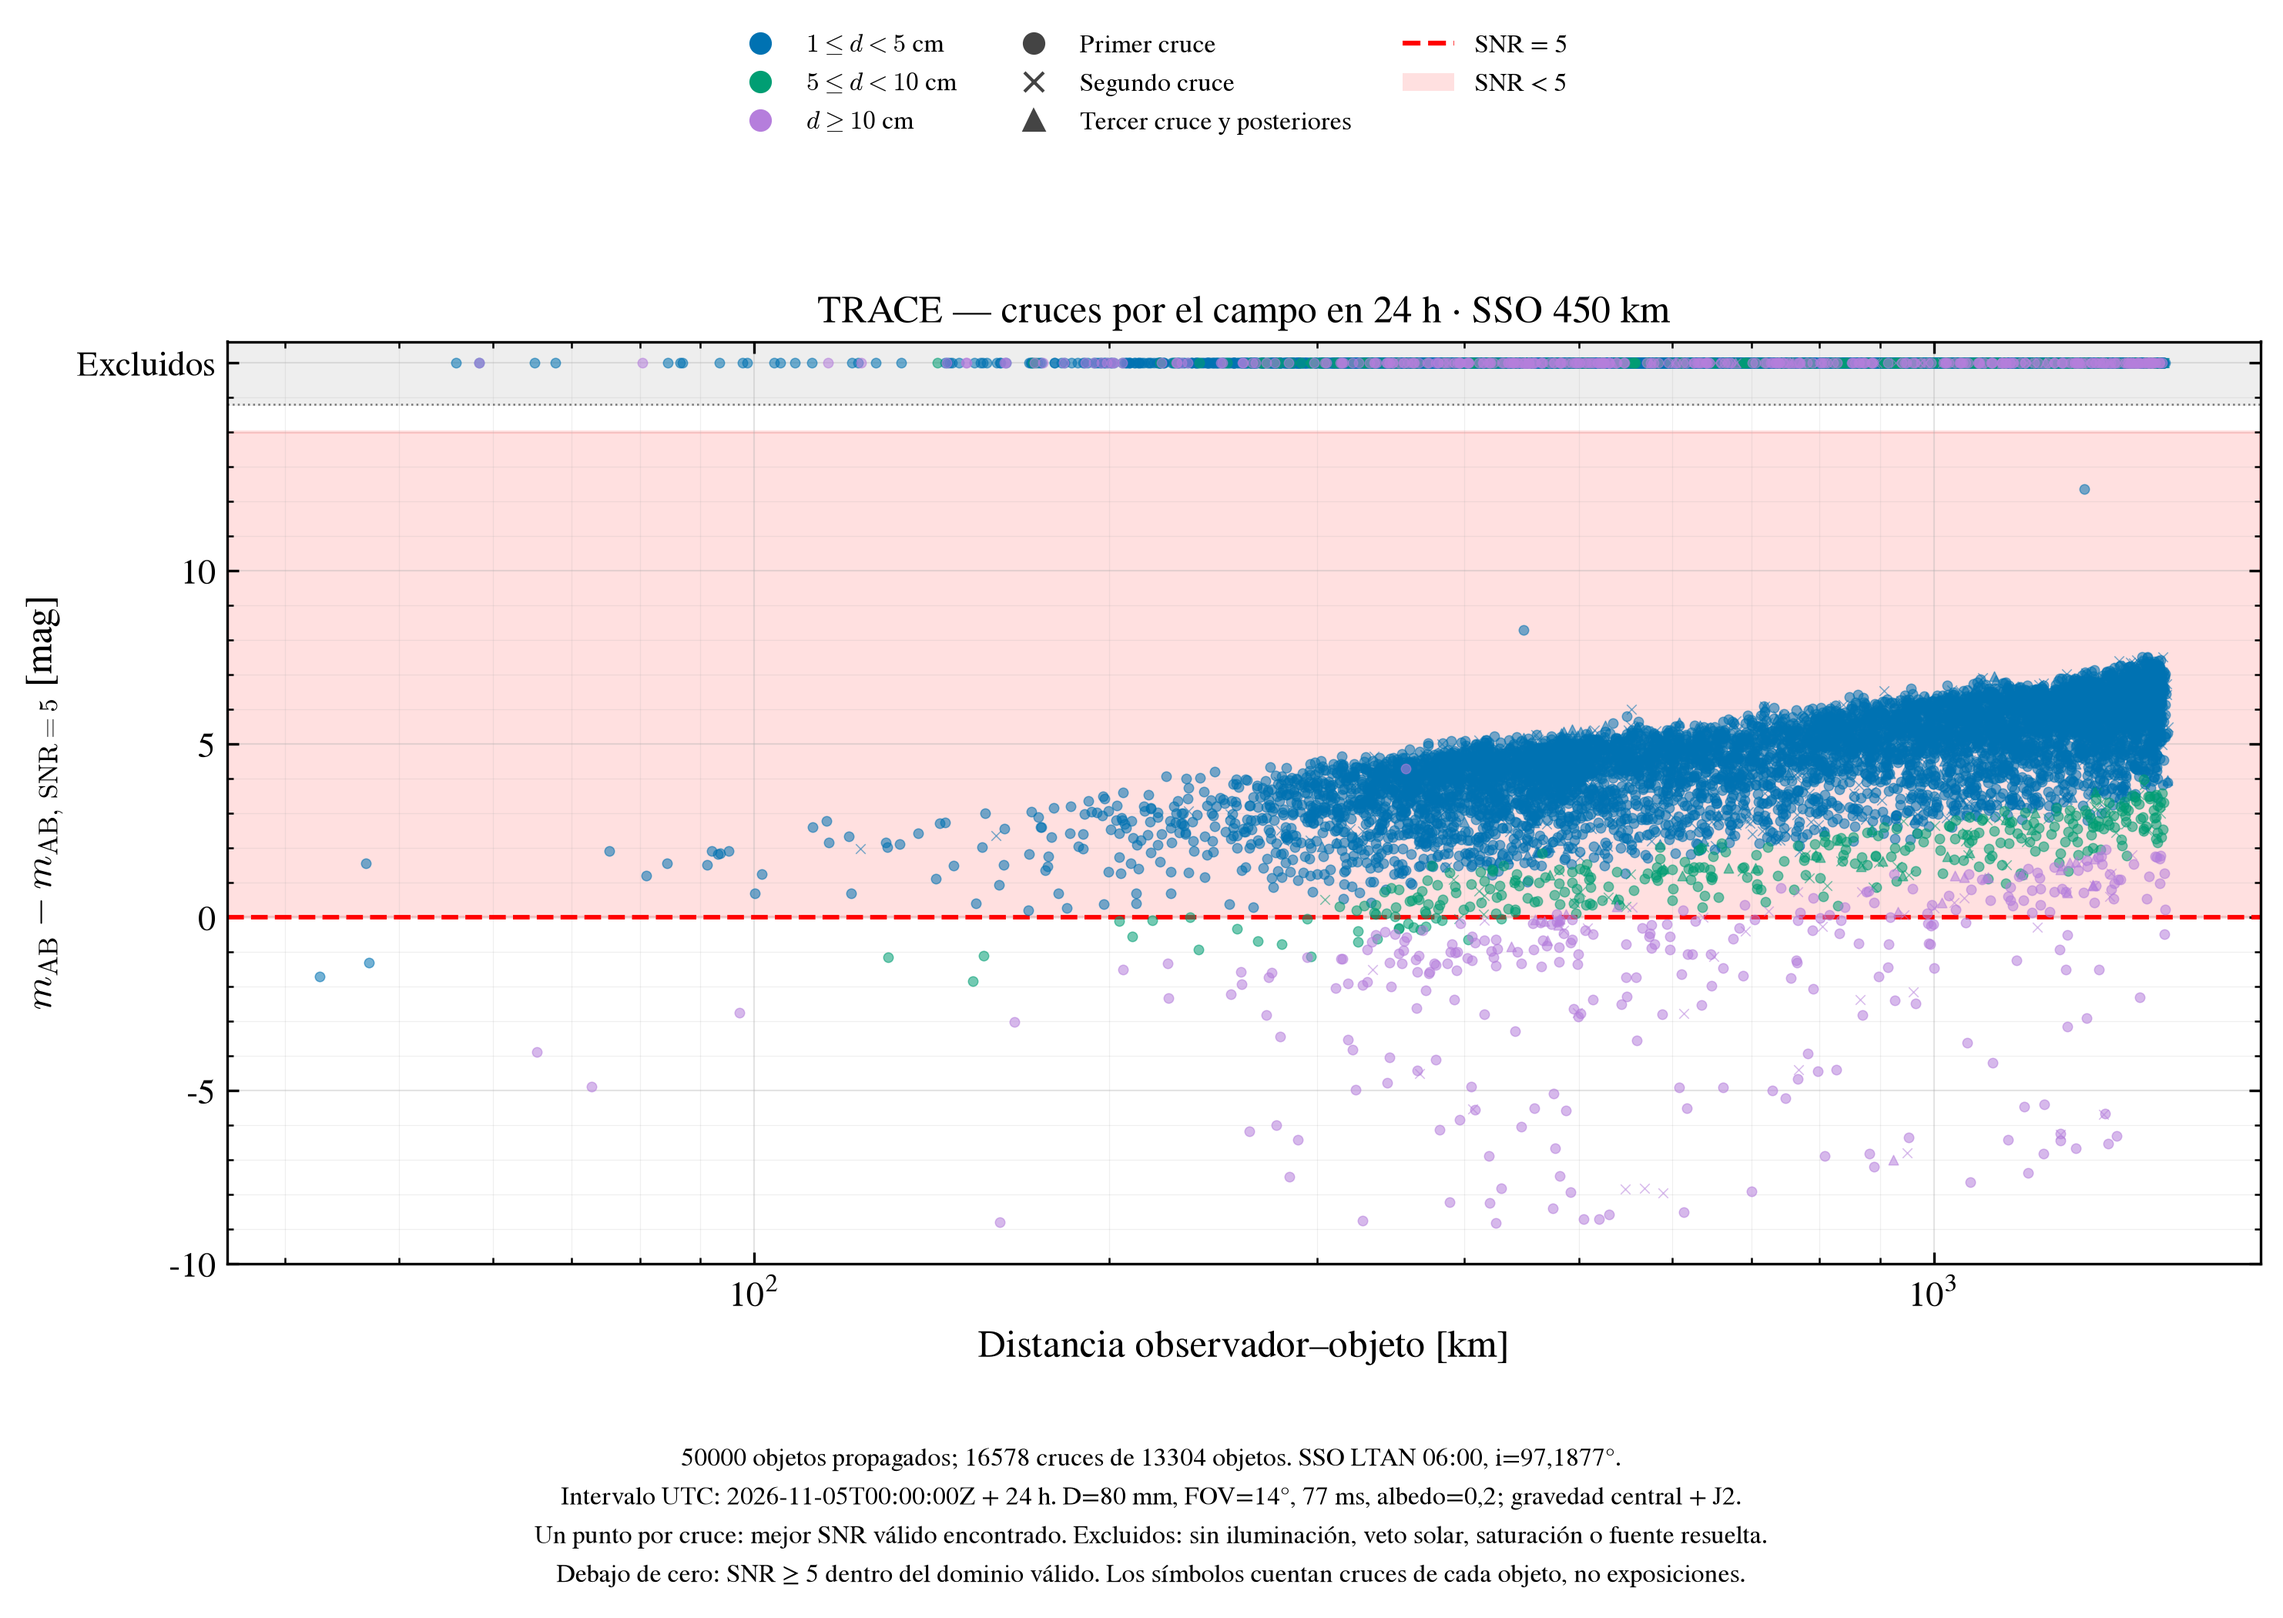
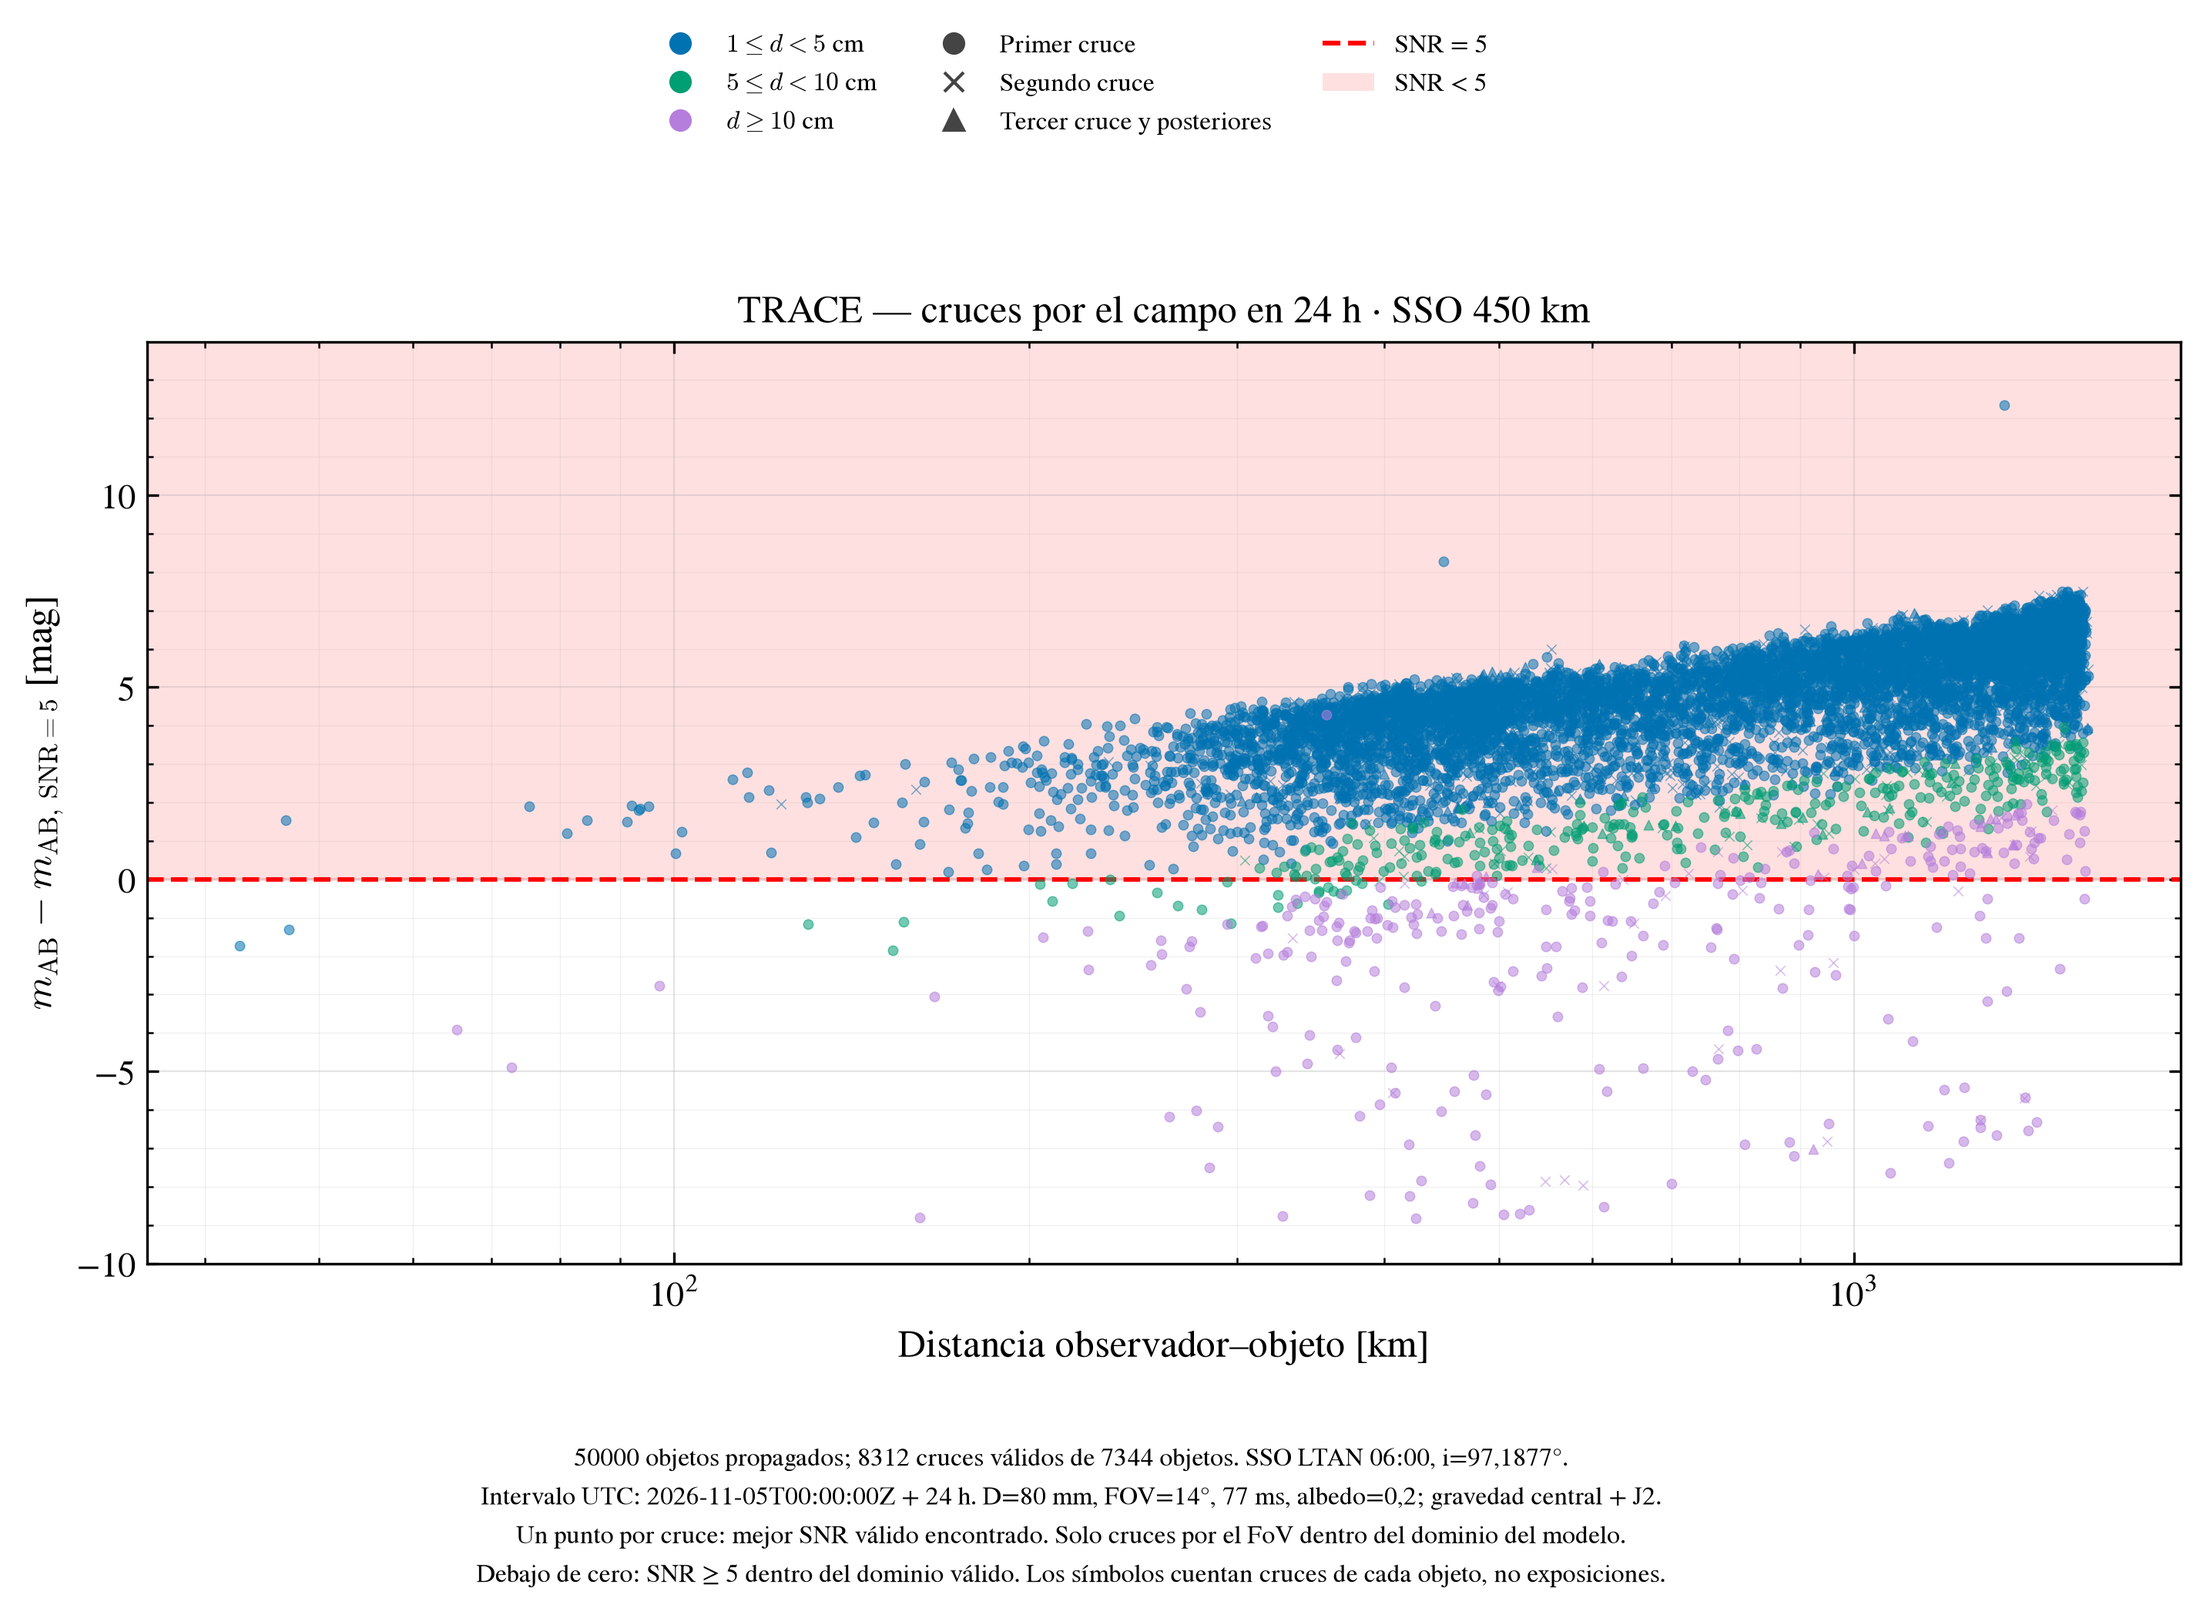
Hide excluded encounters from the two 24-hour scatter plots

diff --git a/scripts/plot_day_encounters.py b/scripts/plot_day_encounters.py
@@ -75,10 +75,67 @@ def best_node(result):
     return len(result['time_s'])//2
 
 
+def render_figures(rows,audit,root,tag):
+    propagation=audit['propagation']
+    valid_count=sum(r['valid'] for r in rows)
+    plotted_ids=len({r['object_id'] for r in rows if r['valid']})
+    publication_style();colors={'1_to_5cm':'#0072B2','5_to_10cm':'#009E73','10cm_up':'#B57EDC'}
+    labels={'1_to_5cm':r'$1\leq d<5$ cm','5_to_10cm':r'$5\leq d<10$ cm','10cm_up':r'$d\geq10$ cm'}
+    valid=np.array([r['valid'] for r in rows]);margin=np.array([r['magnitude_margin'] for r in rows])
+    finite=margin[valid]
+    low=min(-1.,float(np.floor(finite.min()))-1) if len(finite) else -1.
+    high=max(1.,float(np.ceil(finite.max()))+1) if len(finite) else 1.
+    ymap=margin
+    handles=[Line2D([0],[0],marker='o',ls='none',color=c,label=labels[g]) for g,c in colors.items()]
+    handles += [Line2D([0],[0],marker=m,ls='none',color='#444444',label=label) for m,label in
+                [('o','Primer cruce'),('x','Segundo cruce'),('^','Tercer cruce y posteriores')]]
+    handles += [Line2D([0],[0],color='red',ls='--',label='SNR = 5'),Patch(facecolor='red',alpha=.12,label='SNR < 5')]
+    figure_names=[]
+    for xfield,xlabel,suffix,log in [('range_km','Distancia observador–objeto [km]','range',True),
+                                   ('transverse_speed_km_s',r'Velocidad relativa transversal $v_\perp$ [km/s]','transverse_velocity',False)]:
+        fig,ax=plt.subplots(figsize=(10,7),layout='none');fig.subplots_adjust(left=.1,right=.98,bottom=.22,top=.79)
+        ax.axhspan(0,high,color='red',alpha=.12,zorder=0);ax.axhline(0,color='red',ls='--',lw=1.4)
+        xs=np.array([r[xfield] for r in rows])
+        for group,color in colors.items():
+            for marker in ('o','x','^'):
+                mask=valid & np.array([r['size_group']==group and r['marker']==marker for r in rows])
+                ax.scatter(xs[mask],ymap[mask],c=color,marker=marker,s=9,alpha=.55,linewidths=.35,zorder=3)
+        ax.set(xlabel=xlabel,ylabel=r'$m_{\mathrm{AB}}-m_{\mathrm{AB},\,\mathrm{SNR}=5}$ [mag]',
+               ylim=(low,high),title=f'TRACE — cruces por el campo en {propagation["duration_s"]/3600:g} h · SSO 450 km')
+        if log:ax.set_xscale('log')
+        ax.grid(which='major',alpha=.35,lw=.5);ax.grid(which='minor',alpha=.2,lw=.3)
+        fig.legend(handles=handles,loc='upper center',bbox_to_anchor=(.5,.995),ncol=3,frameon=False,fontsize=8)
+        fig.supxlabel(f'{propagation["population_count"]} objetos propagados; {valid_count} cruces válidos de {plotted_ids} objetos. SSO LTAN 06:00, i=97,1877°.\n'
+            f'Intervalo UTC: {propagation["epoch0"]} + {propagation["duration_s"]/3600:g} h. D=80 mm, FOV=14°, 77 ms, albedo=0,2; gravedad central + J2.\n'
+            'Un punto por cruce: mejor SNR válido encontrado. Solo cruces por el FoV dentro del dominio del modelo.\n'
+            'Debajo de cero: SNR ≥ 5 dentro del dominio válido. Los símbolos cuentan cruces de cada objeto, no exposiciones.',fontsize=8,y=.015)
+        fig_name='trace_nominal_'+tag+'_magnitude_margin_vs_'+suffix;figure_names.append(fig_name+'.png')
+        save_figure(fig,root/'outputs/optical/summary',fig_name)
+    audit['figures']=figure_names
+    audit['plot_exclusions']='excluded events omitted from figures; retained in complete encounter CSV'
+    audit['plotted_events']=valid_count
+    audit['plotted_distinct_objects']=plotted_ids
+    return audit
+
+
 def main():
     parser=argparse.ArgumentParser();parser.add_argument('--tag',default='sso450km_24h')
     parser.add_argument('--sample',type=float,default=.25);parser.add_argument('--suffix',default='')
+    parser.add_argument('--plots-only',action='store_true')
     args=parser.parse_args();root=Path(__file__).resolve().parents[1];source=root/'data/generated/encounters'
+    if args.plots_only:
+        name=args.tag+args.suffix
+        audit=json.loads((source/(name+'_photometry.json')).read_text())
+        with (source/(name+'_encounters.csv')).open() as f:
+            rows=list(csv.DictReader(f))
+        for row in rows:
+            row['valid']=row['valid']=='True'
+            for field in ('magnitude_margin','range_km','transverse_speed_km_s'):
+                row[field]=float(row[field]) if row[field] else np.nan
+        audit=render_figures(rows,audit,root,args.tag)
+        (source/(name+'_photometry.json')).write_text(json.dumps(audit,indent=2)+'\n')
+        print(json.dumps({k:audit[k] for k in ('plotted_events','plotted_distinct_objects','figures')},indent=2))
+        return
     propagation=json.loads((source/(args.tag+'_propagation.json')).read_text())
     with np.load(source/(args.tag+'_trajectories.npz')) as archive:
         tr={name:archive[name] for name in archive.files}
@@ -143,42 +200,7 @@ def main():
            'revisits':'chronological FoV passages per ID, including excluded passages; not individual exposures'}
     (source/(name+'_photometry.json')).write_text(json.dumps(audit,indent=2)+'\n')
     if args.suffix:print(json.dumps({k:v for k,v in audit.items() if k!='propagation'},indent=2));return
-    publication_style();colors={'1_to_5cm':'#0072B2','5_to_10cm':'#009E73','10cm_up':'#B57EDC'}
-    labels={'1_to_5cm':r'$1\leq d<5$ cm','5_to_10cm':r'$5\leq d<10$ cm','10cm_up':r'$d\geq10$ cm'}
-    valid=np.array([r['valid'] for r in rows]);margin=np.array([r['magnitude_margin'] for r in rows])
-    finite=margin[valid]
-    low=min(-1.,float(np.floor(finite.min()))-1) if len(finite) else -1.
-    high=max(1.,float(np.ceil(finite.max()))+1) if len(finite) else 1.
-    excluded_y=high+2.;ymap=np.where(valid,margin,excluded_y)
-    handles=[Line2D([0],[0],marker='o',ls='none',color=c,label=labels[g]) for g,c in colors.items()]
-    handles += [Line2D([0],[0],marker=m,ls='none',color='#444444',label=label) for m,label in
-                [('o','Primer cruce'),('x','Segundo cruce'),('^','Tercer cruce y posteriores')]]
-    handles += [Line2D([0],[0],color='red',ls='--',label='SNR = 5'),Patch(facecolor='red',alpha=.12,label='SNR < 5')]
-    figure_names=[]
-    for xfield,xlabel,suffix,log in [('range_km','Distancia observador–objeto [km]','range',True),
-                                   ('transverse_speed_km_s',r'Velocidad relativa transversal $v_\perp$ [km/s]','transverse_velocity',False)]:
-        fig,ax=plt.subplots(figsize=(10,7),layout='none');fig.subplots_adjust(left=.1,right=.98,bottom=.22,top=.79)
-        ax.axhspan(0,high,color='red',alpha=.12,zorder=0);ax.axhline(0,color='red',ls='--',lw=1.4)
-        ax.axhspan(high+.8,excluded_y+.6,color='#EEEEEE',zorder=0);ax.axhline(high+.8,color='#777777',ls=':',lw=.6)
-        xs=np.array([r[xfield] for r in rows])
-        for group,color in colors.items():
-            for marker in ('o','x','^'):
-                mask=np.array([r['size_group']==group and r['marker']==marker for r in rows])
-                ax.scatter(xs[mask],ymap[mask],c=color,marker=marker,s=9,alpha=.55,linewidths=.35,zorder=3)
-        ax.set(xlabel=xlabel,ylabel=r'$m_{\mathrm{AB}}-m_{\mathrm{AB},\,\mathrm{SNR}=5}$ [mag]',
-               ylim=(low,excluded_y+.6),title=f'TRACE — cruces por el campo en {propagation["duration_s"]/3600:g} h · SSO 450 km')
-        if log:ax.set_xscale('log')
-        ticks=[x for x in ax.get_yticks() if low<=x<=high]+[excluded_y]
-        ax.set_yticks(ticks,labels=[f'{v:g}' for v in ticks[:-1]]+['Excluidos'])
-        ax.grid(which='major',alpha=.35,lw=.5);ax.grid(which='minor',alpha=.2,lw=.3)
-        fig.legend(handles=handles,loc='upper center',bbox_to_anchor=(.5,.995),ncol=3,frameon=False,fontsize=8)
-        fig.supxlabel(f'{propagation["population_count"]} objetos propagados; {len(rows)} cruces de {audit["distinct_objects"]} objetos. SSO LTAN 06:00, i=97,1877°.\n'
-            f'Intervalo UTC: {propagation["epoch0"]} + {propagation["duration_s"]/3600:g} h. D=80 mm, FOV=14°, 77 ms, albedo=0,2; gravedad central + J2.\n'
-            'Un punto por cruce: mejor SNR válido encontrado. Excluidos: sin iluminación, veto solar, saturación o fuente resuelta.\n'
-            'Debajo de cero: SNR ≥ 5 dentro del dominio válido. Los símbolos cuentan cruces de cada objeto, no exposiciones.',fontsize=8,y=.015)
-        fig_name='trace_nominal_'+args.tag+'_magnitude_margin_vs_'+suffix;figure_names.append(fig_name+'.png')
-        save_figure(fig,root/'outputs/optical/summary',fig_name)
-    audit['figures']=figure_names
+    audit=render_figures(rows,audit,root,args.tag)
     (source/(name+'_photometry.json')).write_text(json.dumps(audit,indent=2)+'\n')
     assert hashlib.sha256(path.read_bytes()).hexdigest()==propagation['population_sha256']
     print(json.dumps({k:v for k,v in audit.items() if k!='propagation'},indent=2),flush=True)

diff --git a/Notas del Proyecto.md b/Notas del Proyecto.md
@@ -1567,3 +1567,23 @@ el resumen validado, sin archivar productos temporales duplicados.
 El resumen de convergencia se regenera, tras los dos refinamientos, con
 `.venv/bin/python -m scripts.validate_day_encounters`. Las 42 pruebas de
 la suite pasan.
+
+
+## Figuras de 24 h sin cruces excluidos
+
+Por petición del usuario se elimina la franja «Excluidos» y todos sus puntos
+de las dos gráficas de 24 h. Se representan solamente los cruces por el FoV
+con representante válido (`valid=True`), conservando también los de SNR<5:
+8312 cruces correspondientes a 7344 objetos distintos. De ellos 271 cruces
+alcanzan SNR>=5, de 251 objetos distintos, igual que antes.
+
+Los 8266 cruces excluidos también eran cruces geométricos por el campo,
+pero no cumplían alguna condición del dominio óptico/de iluminación. Ahora
+se omiten visualmente; no se eliminan del CSV completo ni se reclasifican.
+No se cambia la propagación, el SNR, la normalización, los colores por tamaño
+ni los ordinales/símbolos de revisita. Los ordinales siguen contando todos
+los cruces del día, incluidos los que no se muestran: no se renumeran al
+filtrar la figura. Se actualizan límites de ejes, pies de figura y manifiesto.
+
+El renderizado se separa del cálculo para reutilizar resultados guardados:
+`.venv/bin/python -m scripts.plot_day_encounters --plots-only`.

diff --git a/README.md b/README.md
@@ -333,7 +333,8 @@ posteriores. Color por tamaño: azul 1–5 cm, verde 5–10 cm, lila >=10 cm
 Por decisión del usuario el eje Y es **magnitud aparente menos su magnitud
 límite individual**. La línea roja discontinua en cero corresponde a SNR=5;
 por encima (rojo) SNR<5. Los cruces sin iluminación o fuera de las hipótesis
-del modelo se conservan en la franja «Excluidos». Se incluyen exposiciones
+del modelo se conservan en la tabla completa, pero se omiten de las gráficas.
+Las figuras muestran 8312 cruces válidos de 7344 objetos. Se incluyen exposiciones
 parciales; se supone sincronización ideal del frame con el instante elegido.
 No es una simulación de cadencia y lectura electrónica reales.
 
@@ -341,3 +342,6 @@ Resultado: 16578 cruces de 13304 objetos distintos; 271 cruces válidos con
 SNR>=5, de 251 objetos distintos. Datos, hipótesis y comprobaciones en
 `data/generated/encounters/`; dos PNG en `outputs/optical/summary/` con
 prefijo `trace_nominal_sso450km_24h_magnitude_margin_vs_`.
+
+Para regenerar únicamente estas figuras desde el CSV guardado, sin repetir
+propagación ni fotometría: `.venv/bin/python -m scripts.plot_day_encounters --plots-only`.
